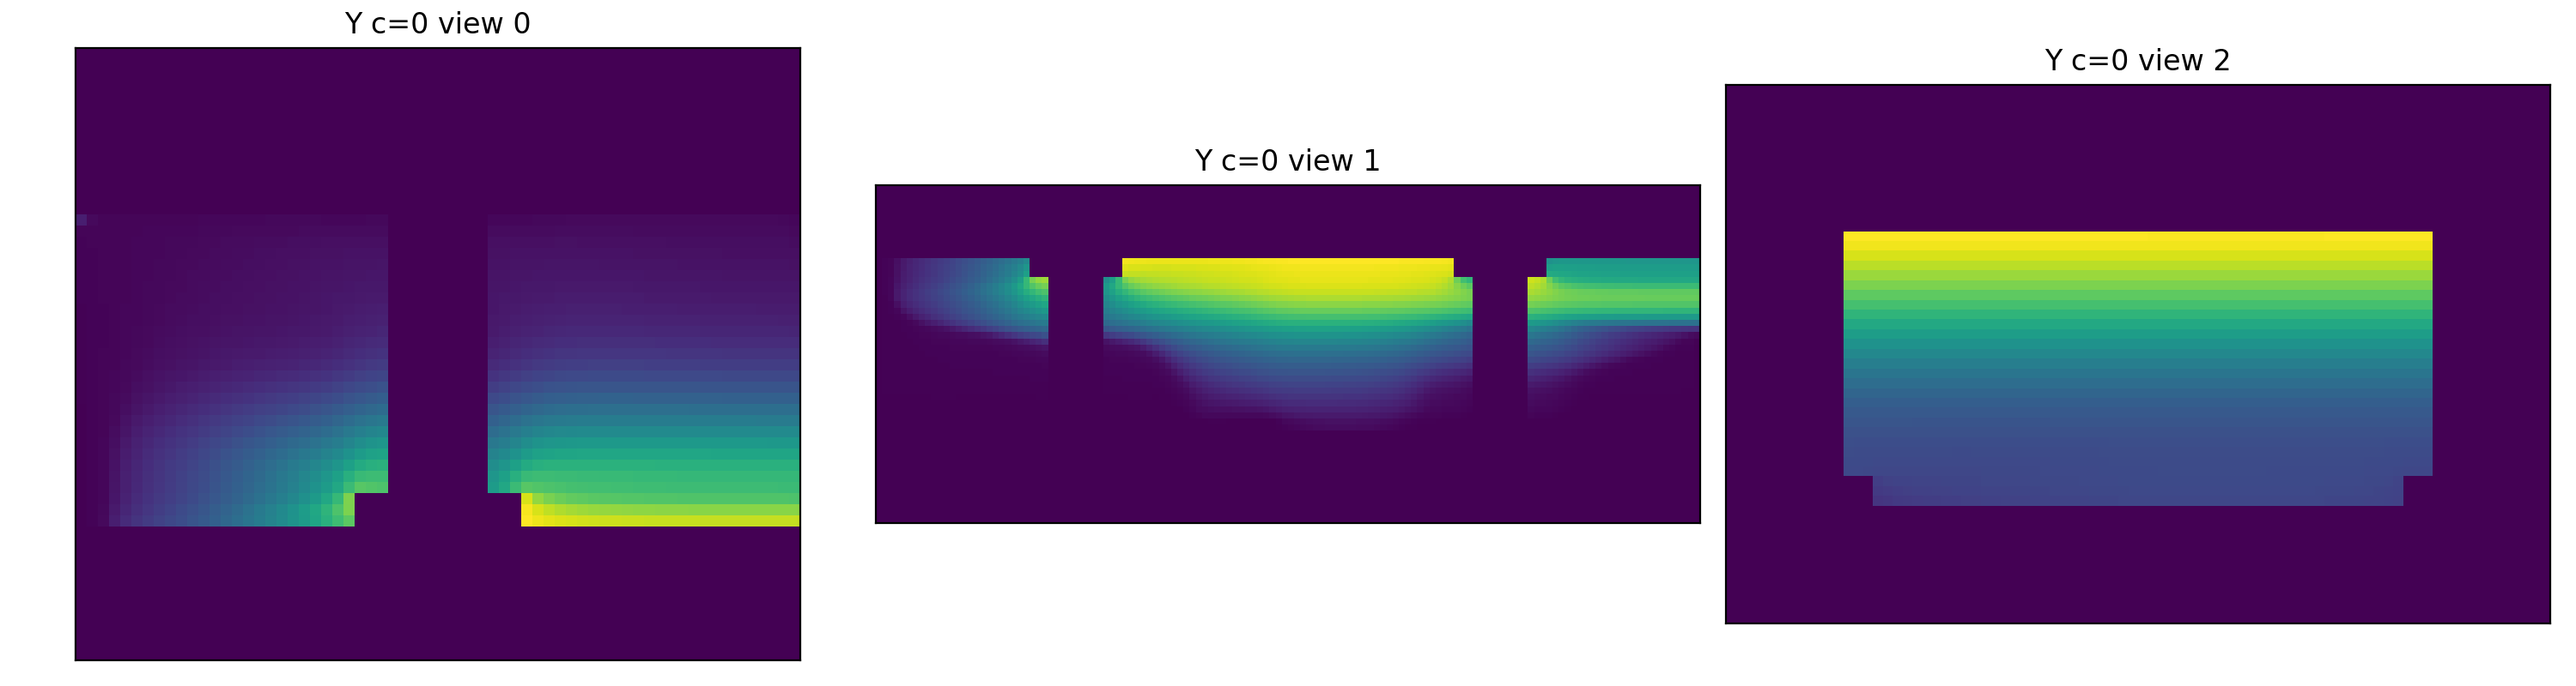
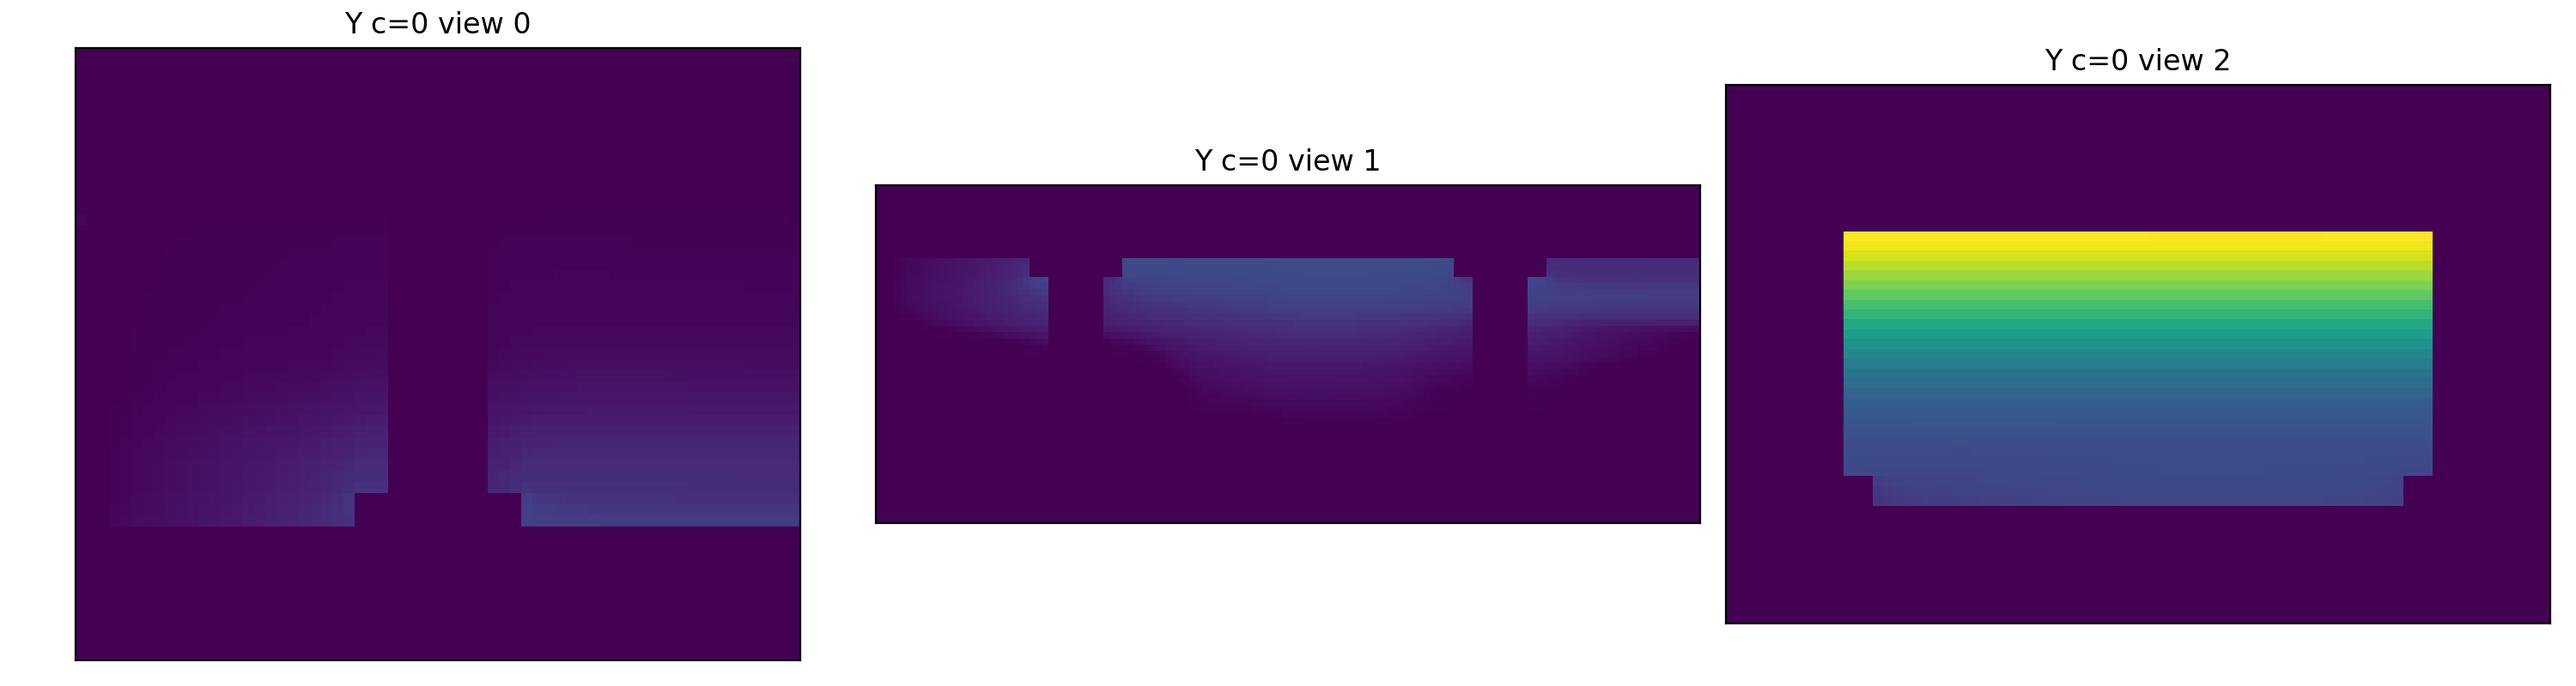
fix homogeneous color for plot

Changed region(s): [[0.341, 0.375, 0.682, 0.625], [0.186, 0.4375, 0.31, 0.7812], [0.031, 0.4688, 0.155, 0.7812]]

diff --git a/visualizations/viz_tensor_3views.py b/visualizations/viz_tensor_3views.py
@@ -163,15 +163,21 @@ def main():
     for c in x_sel:
         if c < 0 or c >= Cin:
             continue
-        fig, axes = plt.subplots(1, len(views), figsize=(5 * len(views), 4))
-        if len(views) == 1:
-            axes = [axes]
-        for j, v in enumerate(views):
+        # compute shared scale across all views for this channel
+        all_vals = []
+        for v in views:
             Hc, Wc = _resolve_view_crop(layout, v, H, W)
             img = np.array(X[idx, v, c, :Hc, :Wc], dtype=np.float32)
             if args.apply_mask:
                 img *= mask3[v, :Hc, :Wc]
-            _imshow(axes[j], img, f"X c={c} view {v}")
+            all_vals.append(img)
+        vmin = min(i.min() for i in all_vals)
+        vmax = max(i.max() for i in all_vals)
+        fig, axes = plt.subplots(1, len(views), figsize=(5 * len(views), 4))
+        if len(views) == 1:
+            axes = [axes]
+        for j, v in enumerate(views):
+            _imshow(axes[j], all_vals[j], f"X c={c} view {v}", vmin=vmin, vmax=vmax)
         out_path = out_dir / f"idx{idx:05d}_X_c{c:02d}_views_{'_'.join(map(str,views))}.png" if save else None
         _save_or_show(fig, out_path, show)
 
@@ -179,32 +185,45 @@ def main():
     for c in y_sel:
         if c < 0 or c >= Cout:
             continue
-        fig, axes = plt.subplots(1, len(views), figsize=(5 * len(views), 4))
-        if len(views) == 1:
-            axes = [axes]
-        for j, v in enumerate(views):
+        # compute shared scale across all views for this channel
+        all_vals = []
+        for v in views:
             Hc, Wc = _resolve_view_crop(layout, v, H, W)
             img = np.array(Y[idx, v, c, :Hc, :Wc], dtype=np.float32)
             if args.apply_mask:
                 img *= mask3[v, :Hc, :Wc]
-            _imshow(axes[j], img, f"Y c={c} view {v}")
+            all_vals.append(img)
+        vmin = min(i.min() for i in all_vals)
+        vmax = max(i.max() for i in all_vals)
+        fig, axes = plt.subplots(1, len(views), figsize=(5 * len(views), 4))
+        if len(views) == 1:
+            axes = [axes]
+        for j, v in enumerate(views):
+            _imshow(axes[j], all_vals[j], f"Y c={c} view {v}", vmin=vmin, vmax=vmax)
         out_path = out_dir / f"idx{idx:05d}_Y_c{c:02d}_views_{'_'.join(map(str,views))}.png" if save else None
         _save_or_show(fig, out_path, show)
 
     # 4) quick diff sanity if te/ti are first two channels (optional)
     if Cout >= 2:
-        fig, axes = plt.subplots(2, len(views), figsize=(5 * len(views), 7))
-        if len(views) == 1:
-            axes = np.array(axes).reshape(2, 1)
-        for j, v in enumerate(views):
+        # compute shared scale per row (te and ti separately) across all views
+        te_vals, ti_vals = [], []
+        for v in views:
             Hc, Wc = _resolve_view_crop(layout, v, H, W)
             te_img = np.array(Y[idx, v, 0, :Hc, :Wc], dtype=np.float32)
             ti_img = np.array(Y[idx, v, 1, :Hc, :Wc], dtype=np.float32)
             if args.apply_mask:
                 te_img *= mask3[v, :Hc, :Wc]
                 ti_img *= mask3[v, :Hc, :Wc]
-            _imshow(axes[0, j], te_img, f"Y te (c=0) view {v}")
-            _imshow(axes[1, j], ti_img, f"Y ti (c=1) view {v}")
+            te_vals.append(te_img)
+            ti_vals.append(ti_img)
+        te_vmin, te_vmax = min(i.min() for i in te_vals), max(i.max() for i in te_vals)
+        ti_vmin, ti_vmax = min(i.min() for i in ti_vals), max(i.max() for i in ti_vals)
+        fig, axes = plt.subplots(2, len(views), figsize=(5 * len(views), 7))
+        if len(views) == 1:
+            axes = np.array(axes).reshape(2, 1)
+        for j, v in enumerate(views):
+            _imshow(axes[0, j], te_vals[j], f"Y te (c=0) view {v}", vmin=te_vmin, vmax=te_vmax)
+            _imshow(axes[1, j], ti_vals[j], f"Y ti (c=1) view {v}", vmin=ti_vmin, vmax=ti_vmax)
         out_path = out_dir / f"idx{idx:05d}_Y_te_ti_views_{'_'.join(map(str,views))}.png" if save else None
         _save_or_show(fig, out_path, show)
 
